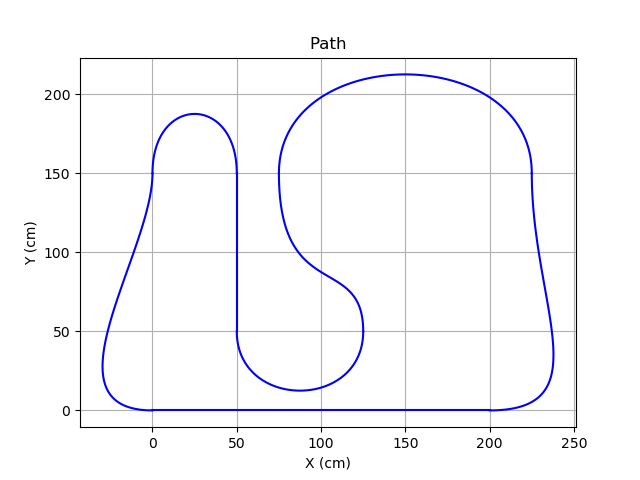
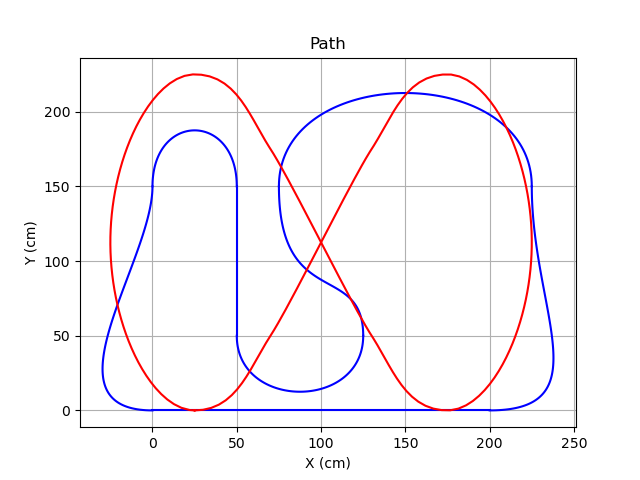
add csv reading to imageGenerator

diff --git a/scripts/imageGenerator.py b/scripts/imageGenerator.py
@@ -2,6 +2,7 @@
 import matplotlib
 import matplotlib.pyplot as plt
 import numpy as np
+import csv
 
 parameters = [
   [[0  , 100], [0  ,  0  ]],
@@ -36,7 +37,23 @@ for i in range(len(parameters) - 1):
 
   ax.plot(sx, sy, 'b')
 
+points = csv.reader(open('paths/path2.csv'))
+
+#for point in points:
+#    ax.plot(float(point[0]), float(point[1]),'b')
+
+columns = [[],[],[],[]]
+for point in points:
+    for i in range(4):
+        try:
+            columns[i].append(float(point[i]))
+        except:
+            pass
+
+ax.plot(columns[0], columns[1], 'r')
+
 ax.set(xlabel='X (cm)', ylabel='Y (cm)', title='Path')
 ax.grid()
 
 fig.savefig("pathImage.png")
+plt.show()

diff --git a/scripts/pathGenerator.py b/scripts/pathGenerator.py
@@ -36,7 +36,7 @@ parameters = [
   [[70 ,-37.5], [175  , 65 ]],
   [[25 ,-75  ], [225  , 0  ]],
   [[-25, 0   ], [112.5,-175]],
-  [[25 , 75  ], [0    , 0  ]],
+  [[25 , 75  ], [0    , 0  ]]
 ] # """
 
 """ # Path 3 data
